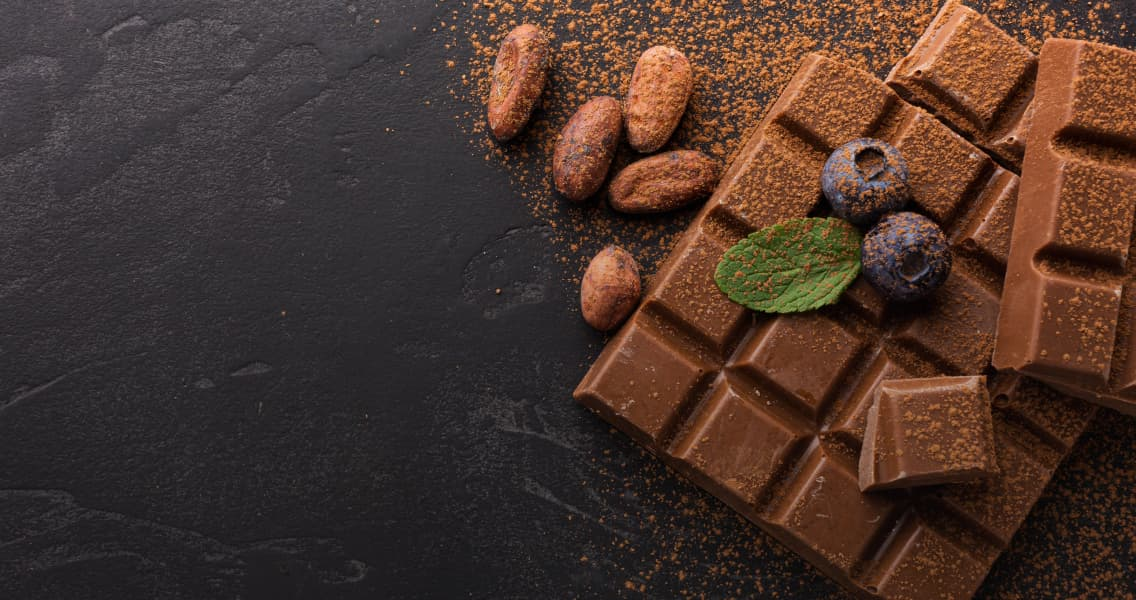
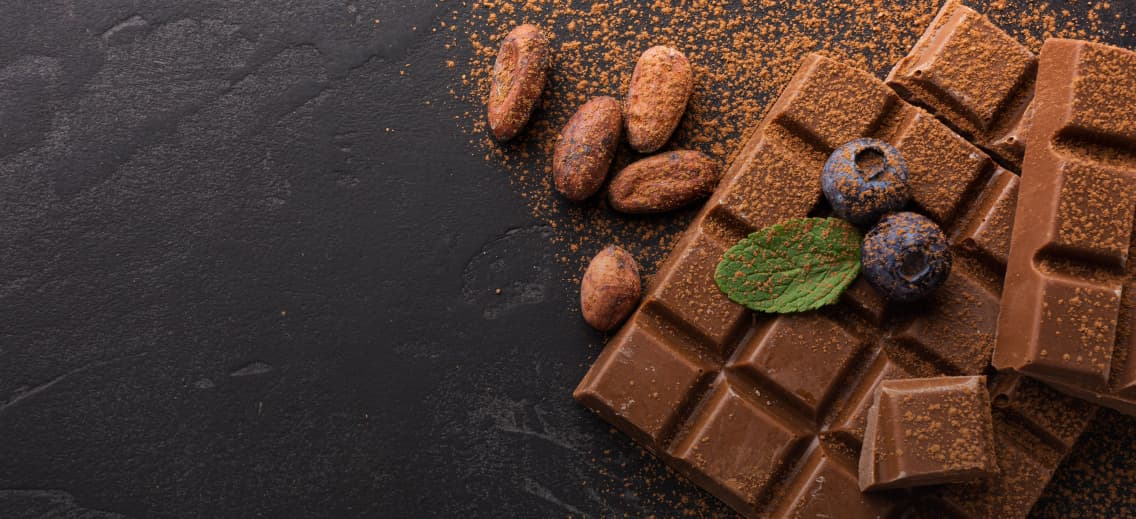
+img,+title

diff --git a/src/css/hero.css b/src/css/hero.css
@@ -1,0 +1,127 @@
+:root {
+    /*-----Body-----*/
+    --body-background-color: #FAFAFA;
+    /*----Font color----*/
+    --text-color-light: #111111;
+    --text-color-dark: #FFFFFF;
+    --secondary-text-color-dark: rgba(255, 255, 255, 0.7);
+    --secondary-text-color-light: rgba(17, 17, 17, 0.7);
+    /*-----Section Background color------*/
+    --bg-color-light: #FFFFFF;
+    --bg-color-dark: #1E1823;
+    /*---Colors---*/
+    --black: #111111;
+    --blackcurrant: #1E1823;
+    --orange: #FD9222;
+    --white: #FAFAFA;
+    --pink: #FCF1E0;
+    /*----Icons----*/
+    --icon-color-normal-light: #111111;
+    --icon-color-normal-dark: #FFFFFF;
+    --icon-color-active: #FD9222;
+    --close-icon: linear-gradient(181.96deg, #f16529 1.64%, #d44528 98.35%);
+    /*----Button Light ----*/
+    --button-bg-normal-light: #FD9222;
+    --button-bg-active-light: #FCF1E0;
+    --button-font-normal-light: #FFFFFF;
+    --button-font-active-light: #FD9222;
+    /*-----Button Dark -----*/
+    --button-border-normal-dark: #FFFFFF;
+    --button-border-active-dark: #FD9222;
+}
+
+
+@media screen and (min-width: 375px) {
+    .container {
+        width: 375px;
+        margin-inline: auto;
+    }
+    .hero{
+        max-width:335px;
+        height:620px;
+        margin: 0 auto;
+        background-image:url(../img/hero/mobile/hero.jpg);
+        border-radius: 30px;
+        background-repeat: no-repeat;
+        background-position: center;
+        background-size: cover;
+        padding-top: 395px;
+        background-color: var(--bg-color-dark);    
+    }
+        @media (min-device-pixel-ratio: 2),
+        (min-resolution: 192dpi),
+        (min-resolution: 2dppx) {
+            .hero {
+                background-image:url(../img/hero/mobile/hero_2x.jpg);
+            }
+        }
+    .hero_title{
+        width: 299px;
+        height: 72px;
+        font-style: normal;
+        font-weight: 500;
+        font-size: 20px;
+        line-height: 1.2;
+        letter-spacing: -0.03em;
+        color:var(--bg-color-light)  ;
+        margin-bottom: 32px;
+    }
+    .hero-button{
+    }
+
+}
+
+@media screen and (min-width: 768px) {
+    .section {
+        padding-top: 100px;
+    }
+
+    .container {
+        width: 768px;
+        padding-inline: 32px;
+    }
+    .hero{
+        max-width:704px;
+        height:890px;
+        background-image: url(../img/hero/tablet/hero.jpg);
+        padding-top: 671px;  
+    }
+        @media (min-device-pixel-ratio: 2),
+        (min-resolution: 192dpi),
+        (min-resolution: 2dppx) {
+            .hero {
+                background-image:url(../img/hero/tablet/hero_2x.jpg);
+            }
+        }
+    .hero_title{
+        width: 484px;
+        height: 102px;
+        font-size: 28px;
+    }
+}
+
+@media screen and (min-width: 1200px) {
+    .section {
+        padding-top: 128px;
+    }
+
+    .container {
+        width: 1200px;
+    }
+    .hero{
+        max-width:1136px;
+        height:620px;
+        background-image: url(../img/hero/desktop/hero.jpg);
+        padding-top: 381px;
+        background-color: #FCF1E0;
+    }
+        @media (min-device-pixel-ratio: 2),
+        (min-resolution: 192dpi),
+        (min-resolution: 2dppx) {
+            .hero {
+                background-image:url(../img/hero/desktop/hero_2x.jpg);
+            }
+        }
+    
+
+}

diff --git a/src/partials/hero.html b/src/partials/hero.html
@@ -1,10 +1,12 @@
 <section class="hero">
-  <h1 class="hidden"></h1>
-  <h2 class="hero_title">
-    Treat yourself or a loved one to our finest ingredients for a moment of pure
-    delight!
-  </h2>
-  <button></button>
-  <button></button>
-  <p>scroll down</p>
+  <div class="container">
+    <h1 class="visually-hidden">Chocolate</h1>
+    <h2 class="hero_title">
+      Treat yourself or a loved one to our finest ingredients for a moment of
+      pure delight!
+    </h2>
+    <button class="button"></button>
+    <button></button>
+    <p>scroll down</p>
+  </div>
 </section>
